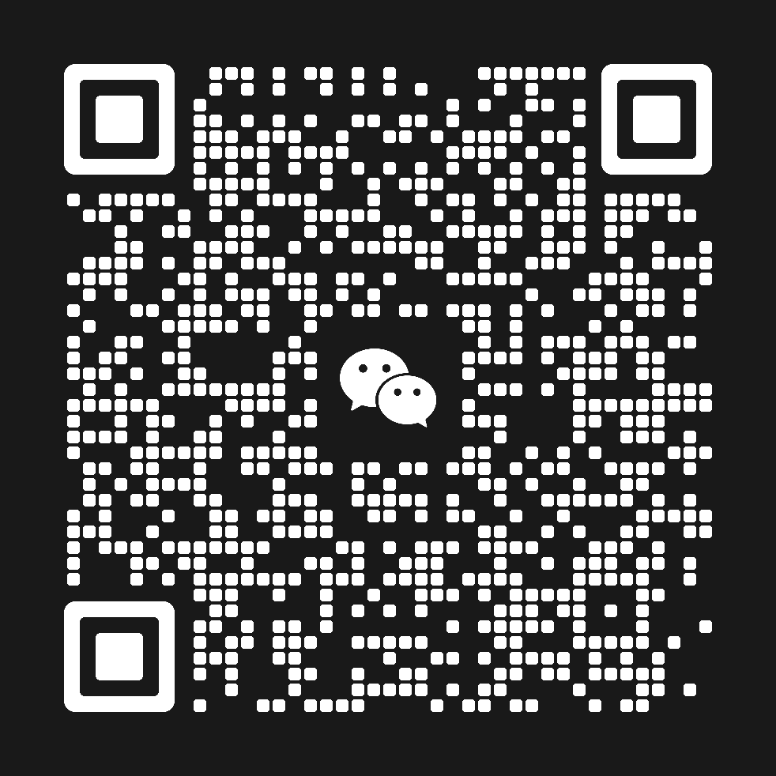
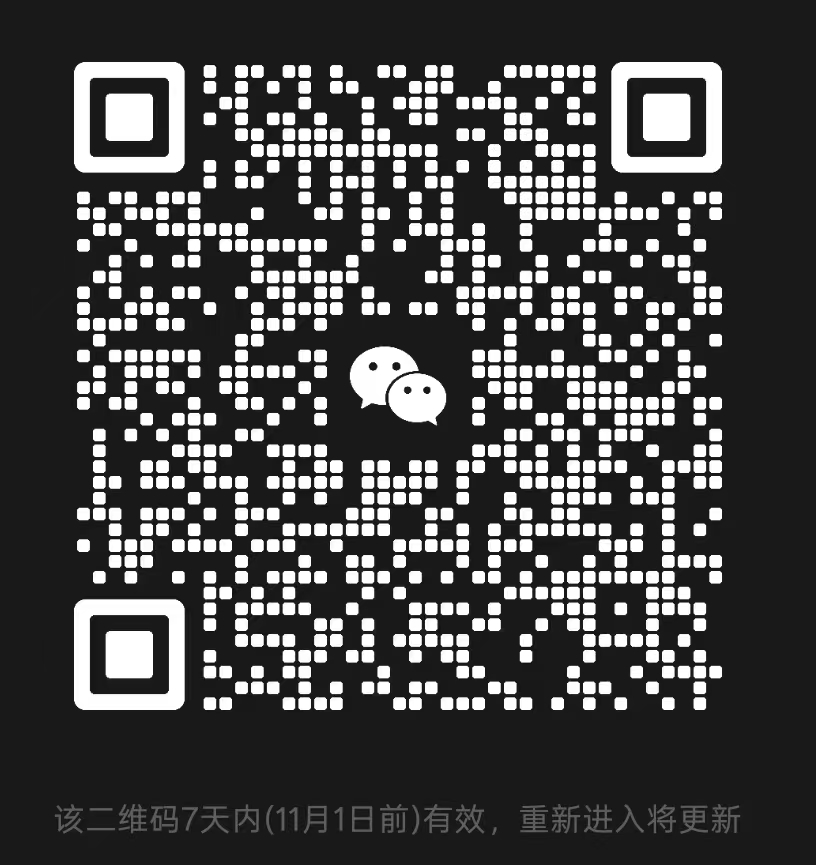
docs: refresh WeChat group QR code (#1105)

diff --git a/README_ZH.md b/README_ZH.md
@@ -473,7 +473,7 @@ node bin/archify.mjs deliver workflow examples/agent-tool-call.workflow.json /tm
 
 <table>
 <tr>
-  <td align="center"><strong><img src="docs/assets/community/wechat.svg" alt="" width="18" /> 微信群</strong><br/><img src="docs/assets/community/wechat-qr.png" alt="Archify Official 微信群二维码" width="300" height="300" /></td>
+  <td align="center"><strong><img src="docs/assets/community/wechat.svg" alt="" width="18" /> 微信群</strong><br/><img src="docs/assets/community/wechat-qr.png" alt="Archify Official 微信群二维码" width="300" height="318" /></td>
   <td align="center"><strong><img src="docs/assets/community/qq.svg" alt="" width="18" /> QQ 群</strong><br/><img src="docs/assets/community/qq-qr.png" alt="Archify Official QQ 群二维码" width="300" height="300" /></td>
 </tr>
 </table>

diff --git a/README.md b/README.md
@@ -469,7 +469,7 @@ Connect with other users and developers, share ideas, request features, report b
 
 <table>
 <tr>
-  <td align="center"><strong><img src="docs/assets/community/wechat.svg" alt="" width="18" /> WeChat</strong><br/><img src="docs/assets/community/wechat-qr.png" alt="Archify Official WeChat group QR code" width="300" height="300" /></td>
+  <td align="center"><strong><img src="docs/assets/community/wechat.svg" alt="" width="18" /> WeChat</strong><br/><img src="docs/assets/community/wechat-qr.png" alt="Archify Official WeChat group QR code" width="300" height="318" /></td>
   <td align="center"><strong><img src="docs/assets/community/qq.svg" alt="" width="18" /> QQ</strong><br/><img src="docs/assets/community/qq-qr.png" alt="Archify Official QQ group QR code" width="300" height="300" /></td>
 </tr>
 </table>

diff --git a/README_EN.md b/README_EN.md
@@ -469,7 +469,7 @@ Connect with other users and developers, share ideas, request features, report b
 
 <table>
 <tr>
-  <td align="center"><strong><img src="docs/assets/community/wechat.svg" alt="" width="18" /> WeChat</strong><br/><img src="docs/assets/community/wechat-qr.png" alt="Archify Official WeChat group QR code" width="300" height="300" /></td>
+  <td align="center"><strong><img src="docs/assets/community/wechat.svg" alt="" width="18" /> WeChat</strong><br/><img src="docs/assets/community/wechat-qr.png" alt="Archify Official WeChat group QR code" width="300" height="318" /></td>
   <td align="center"><strong><img src="docs/assets/community/qq.svg" alt="" width="18" /> QQ</strong><br/><img src="docs/assets/community/qq-qr.png" alt="Archify Official QQ group QR code" width="300" height="300" /></td>
 </tr>
 </table>

diff --git a/README_JA.md b/README_JA.md
@@ -439,7 +439,7 @@ Mermaid の自動パース、汎用オートレイアウト、ホスティング
 
 <table>
 <tr>
-  <td align="center"><strong><img src="docs/assets/community/wechat.svg" alt="" width="18" /> WeChat</strong><br/><img src="docs/assets/community/wechat-qr.png" alt="Archify Official WeChat group QR code" width="300" height="300" /></td>
+  <td align="center"><strong><img src="docs/assets/community/wechat.svg" alt="" width="18" /> WeChat</strong><br/><img src="docs/assets/community/wechat-qr.png" alt="Archify Official WeChat group QR code" width="300" height="318" /></td>
   <td align="center"><strong><img src="docs/assets/community/qq.svg" alt="" width="18" /> QQ</strong><br/><img src="docs/assets/community/qq-qr.png" alt="Archify Official QQ group QR code" width="300" height="300" /></td>
 </tr>
 </table>
